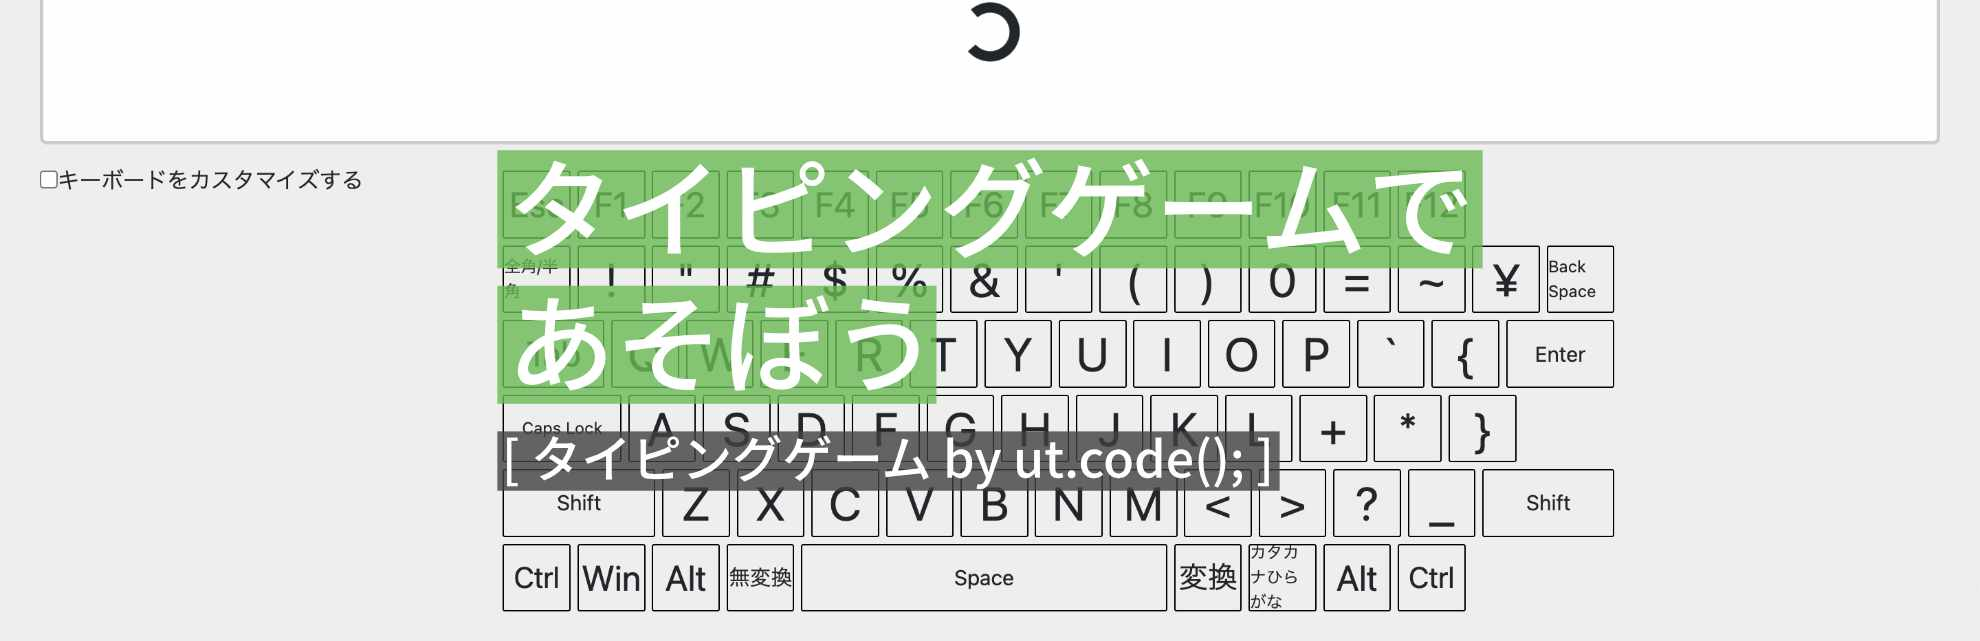
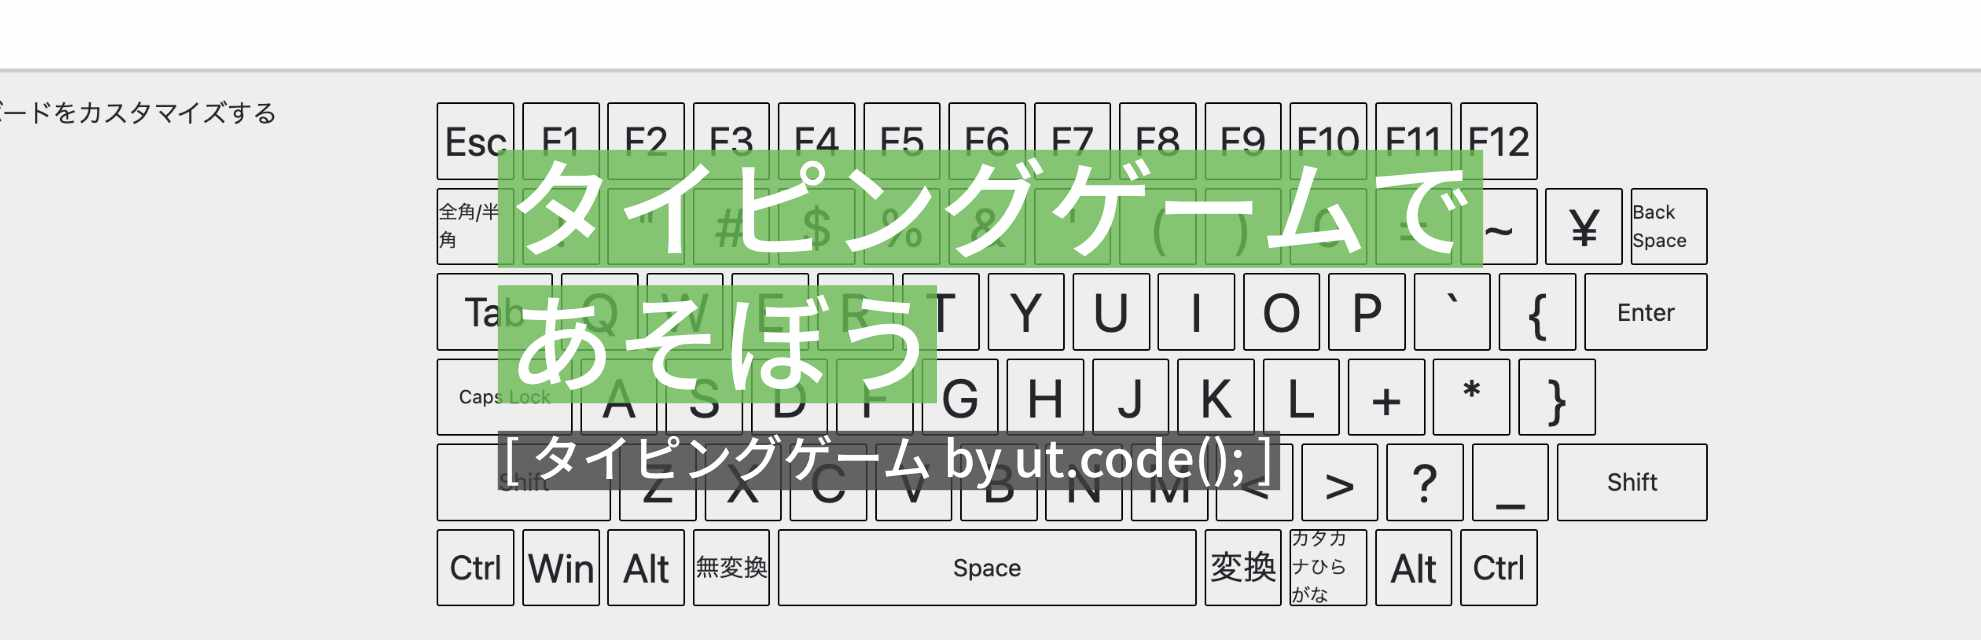
fix layout

Changed region(s): [[0.0, 0.1562, 0.9859, 0.9688], [0.0, 0.0, 1.0, 0.125], [0.8318, 0.6875, 0.8626, 0.7188]]

diff --git a/pages/index.vue b/pages/index.vue
@@ -5,17 +5,26 @@
     </Title>
   </Head>
   <v-app>
-    <v-app-bar>
+    <v-app-bar color="grey-lighten-3">
       <v-toolbar-title>
         ut.code(); 第96回五月祭企画 「あなたのためのプログラミング」
       </v-toolbar-title>
+      <!-- <v-btn
+        style="text-transform: none"
+        prepend-icon="mdi-web"
+        href="https://utcode.net"
+        target="_blank"
+        rel="noopener noreferrer"
+      >
+        ut.code();
+      </v-btn> -->
       <v-btn
-        icon
+        prepend-icon="mdi-vote"
         href="https://gogatsusai.jp/96/visitor/kikaku/476/"
         target="_blank"
         rel="noopener noreferrer"
       >
-        <v-icon>mdi-vote</v-icon>
+        投票する
       </v-btn>
       <!-- <v-btn icon href="#kampa">
         <v-icon>mdi-cash</v-icon>
@@ -43,7 +52,7 @@
           cycle
         >
           <v-carousel-item
-            v-for="key in 1"
+            v-for="key in 6"
             :key="key"
             :src="'/carousel/' + key + '.jpg'"
             cover
@@ -62,20 +71,22 @@
               </v-container>
             </v-col>
             <v-col cols="12" md="6">
-              <v-card-title>日時</v-card-title>
               <v-container>
-                <p>5/13 (土), 5/14 (日) 9:00 〜 18:00</p>
-              </v-container>
-              <v-card-title>場所</v-card-title>
-              <v-container>
-                <p>工学部 6 号館 2 階 63 号講義室</p>
+                <v-card-title>日時</v-card-title>
+                <v-alert> 5/13 (土), 5/14 (日) 9:00 〜 18:00 </v-alert>
+                <v-card-title>場所</v-card-title>
+                <v-alert>
+                  <p>工学部 6 号館 2 階 63 号講義室</p>
+                </v-alert>
               </v-container>
             </v-col>
           </v-row>
           <!-- </v-container> -->
         </v-card>
         <v-card>
-          <v-card-title> はじめてのプログラミング教室 </v-card-title>
+          <v-sheet color="grey-lighten-3">
+            <v-card-title> はじめてのプログラミング教室 </v-card-title>
+          </v-sheet>
           <v-card-item>
             <!-- <v-container> -->
             <v-row>
@@ -95,10 +106,11 @@
                     でも最適化するとなると大人でも大変……。ぜひ挑戦していってください！
                   </p>
                 </v-container>
+
                 <v-btn
                   block
                   href="https://festival.utcode.net/"
-                  class="ma-2"
+                  class="ma-2 align-self-end"
                   target="_blank"
                   rel="noopener noreferrer"
                   >このコンテンツで遊ぶ</v-btn
@@ -109,9 +121,11 @@
           </v-card-item>
         </v-card>
         <v-card>
-          <v-card-title>
-            ML Workshop in はじめてのプログラミング教室
-          </v-card-title>
+          <v-sheet color="grey-lighten-3">
+            <v-card-title>
+              ML Workshop in はじめてのプログラミング教室
+            </v-card-title>
+          </v-sheet>
           <v-card-item>
             <v-row>
               <v-col cols="12" md="6">
@@ -154,7 +168,9 @@
           </v-card-item>
         </v-card>
         <v-card>
-          <v-card-title> First Web Game Maker </v-card-title>
+          <v-sheet color="grey-lighten-3">
+            <v-card-title> First Web Game Maker </v-card-title>
+          </v-sheet>
           <v-card-item>
             <v-row>
               <v-col cols="12" md="6">
@@ -169,7 +185,9 @@
           </v-card-item>
         </v-card>
         <v-card>
-          <v-card-title> タイピングゲーム by ut.code(); </v-card-title>
+          <v-sheet color="grey-lighten-3">
+            <v-card-title> タイピングゲーム by ut.code(); </v-card-title>
+          </v-sheet>
           <v-card-item>
             <v-row>
               <v-col cols="12" md="6">
@@ -201,7 +219,9 @@
           </v-card-item>
         </v-card>
         <v-card>
-          <v-card-title> PL Workshop </v-card-title>
+          <v-sheet color="grey-lighten-3">
+            <v-card-title> PL Workshop </v-card-title>
+          </v-sheet>
           <v-card-item>
             <v-row>
               <v-col cols="12" md="6">
@@ -262,20 +282,22 @@
               では、プログラミングを始めてみたい、新しいスキルを身につけたいという学生を常時募集しています！<br />
               ご興味をお持ちの方は、ぜひご連絡ください！
             </p>
-            <v-btn
-              href="https://twitter.com/utokyo_code"
-              class="ma-2"
-              target="_blank"
-              rel="noopener noreferrer"
-              >公式Twitter</v-btn
-            >
-            <v-btn
-              href="https://line.me/ti/p/%40nlr3843e"
-              class="ma-2"
-              target="_blank"
-              rel="noopener noreferrer"
-              >公式LINE</v-btn
-            >
+            <v-row justify="center" class="ma-2">
+              <v-btn
+                href="https://twitter.com/utokyo_code"
+                class="mx-2"
+                target="_blank"
+                rel="noopener noreferrer"
+                >公式Twitter</v-btn
+              >
+              <v-btn
+                href="https://line.me/ti/p/%40nlr3843e"
+                class="mx-2"
+                target="_blank"
+                rel="noopener noreferrer"
+                >公式LINE</v-btn
+              >
+            </v-row>
           </v-card-item>
         </v-card>
       </v-container>
@@ -302,7 +324,7 @@ import "@mdi/font/css/materialdesignicons.css";
 </script>
 <style>
 .v-card {
-  margin: 1rem 0;
+  margin: 2rem 0;
 }
 .v-col {
   padding: 0px;
